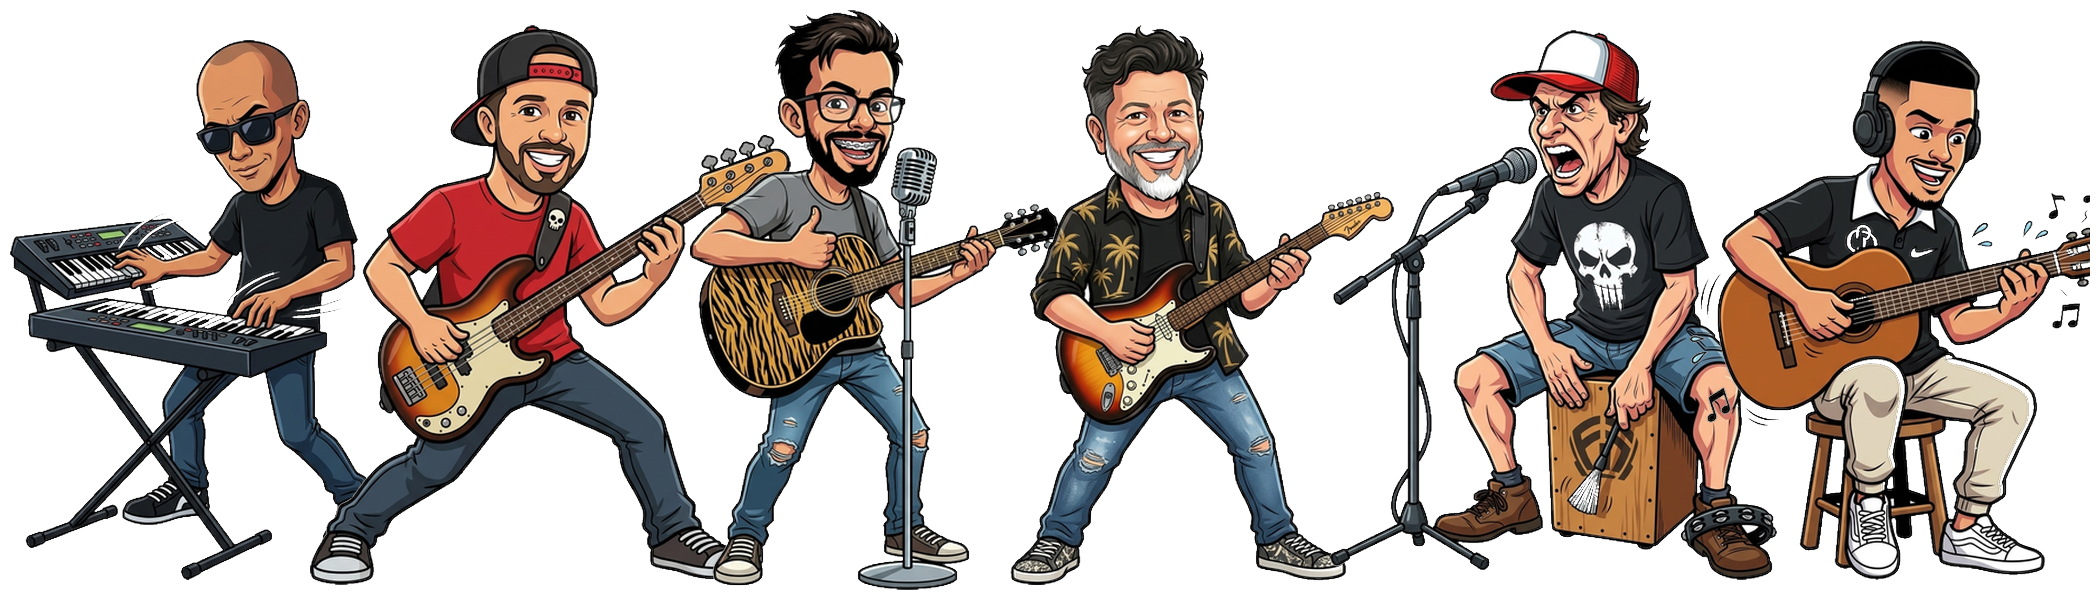
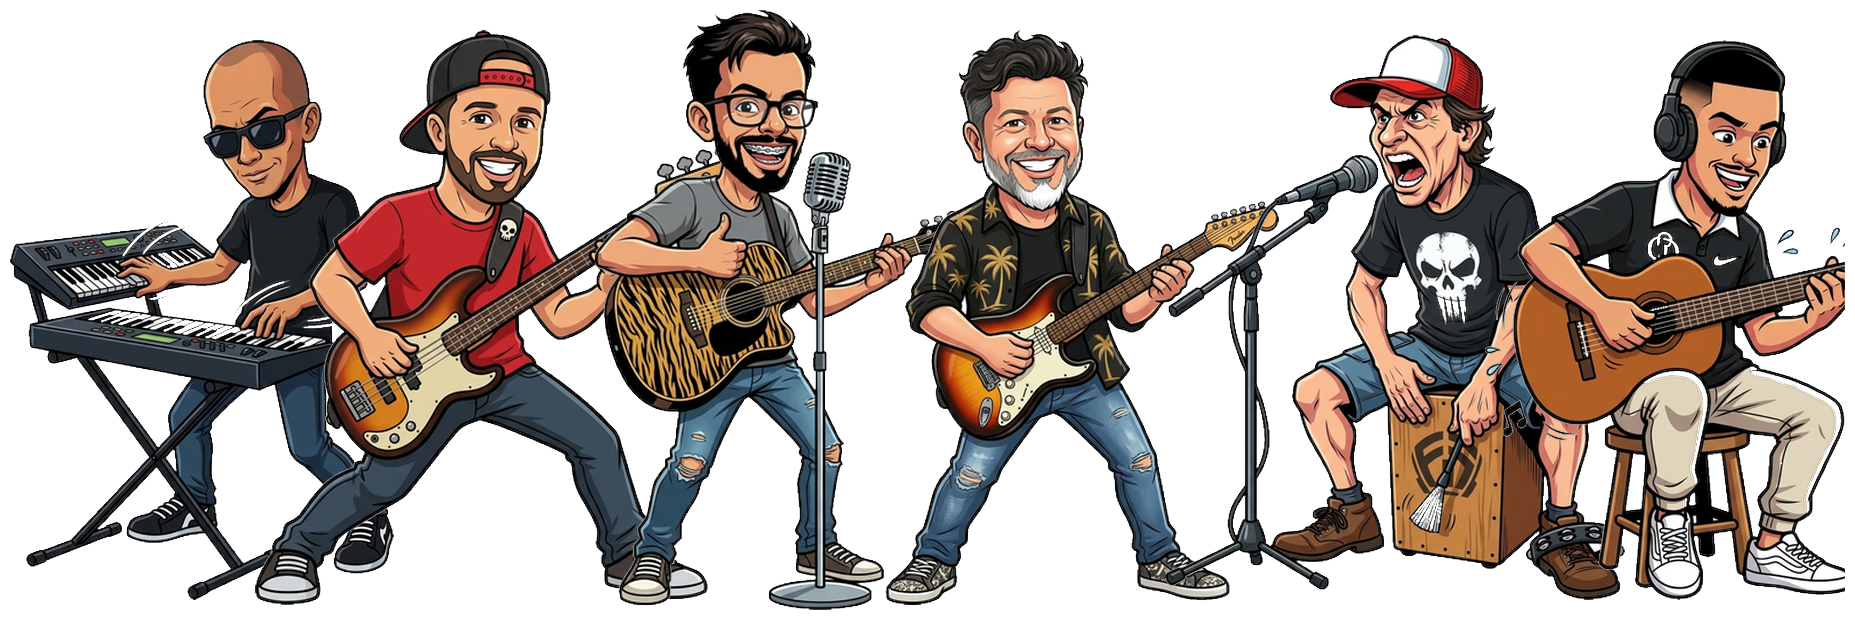
fix(hero): aplicar classe is-wide-band no style interno do index.html e expandir banda completa na largura do titulo Retorica

diff --git a/index.html b/index.html
@@ -234,7 +234,9 @@
   .hero-bg{position:absolute;inset:0;background:radial-gradient(ellipse 80% 60% at 50% 60%,rgba(200,130,10,.08) 0%,transparent 70%),radial-gradient(ellipse 40% 40% at 20% 80%,rgba(139,58,10,.12) 0%,transparent 60%)}
   .hero-lines{position:absolute;inset:0;background-image:repeating-linear-gradient(0deg,transparent,transparent 59px,rgba(200,130,10,.04) 59px,rgba(200,130,10,.04) 60px)}
   .hero-content{position:relative;text-align:center;animation:fadeUp 1.2s ease both;padding:1rem 0 6.6rem}
-  .hero-inst-wrap{position:relative;width:214px;max-width:63.75vw;aspect-ratio:485 / 514;height:auto;margin:.5rem auto .75rem;display:flex;justify-content:center;align-items:center;animation:fadeUp 1.2s .1s ease both}
+  .hero-inst-wrap{position:relative;width:214px;max-width:63.75vw;aspect-ratio:485 / 514;height:auto;margin:.5rem auto .75rem;display:flex;justify-content:center;align-items:center;animation:fadeUp 1.2s .1s ease both;transition:width .5s cubic-bezier(.4,0,.2,1),max-width .5s cubic-bezier(.4,0,.2,1),aspect-ratio .5s ease}
+  .hero-inst-wrap.is-wide-band{width:min(1050px,96vw)!important;max-width:96vw!important;aspect-ratio:1855 / 620!important;height:auto!important;margin:.25rem auto .75rem!important}
+  .hero-inst-wrap.is-wide-band .hero-inst-img:not(.active){opacity:0!important;transition:none!important}
   .hero-inst-img{position:absolute;inset:0;width:100%;height:100%;object-fit:contain;filter:drop-shadow(0 0 24px rgba(200,130,10,0.25));opacity:0;transform:scale(0.96);transition:opacity 1.3s cubic-bezier(.4,0,.2,1),transform 1.3s cubic-bezier(.4,0,.2,1);pointer-events:none;user-select:none;z-index:1;will-change:opacity,transform}
   .hero-inst-img.active{opacity:1;transform:scale(1);z-index:2}
   @keyframes fadeUp{from{opacity:0;transform:translateY(40px)}to{opacity:1;transform:translateY(0)}}
@@ -831,6 +833,7 @@
     .hero-divider{width:200px;margin:1.2rem auto}
     .hero-content{padding:2.4rem 0 7.2rem;width:100%;max-width:100%;display:flex;flex-direction:column;align-items:center;box-sizing:border-box}
     .hero-inst-wrap{margin:.9rem auto!important;width:214px;max-width:63.75vw;aspect-ratio:485 / 514}
+    .hero-inst-wrap.is-wide-band{width:min(1050px,98vw)!important;max-width:98vw!important;aspect-ratio:1855 / 620!important;margin:.25rem auto .5rem!important}
     .hero-inst-img{position:absolute;inset:0;margin:auto;width:100%;height:100%;max-width:100%;object-fit:contain}
     .toca-badge{grid-template-columns:1fr;justify-items:center;text-align:center;padding:1.15rem 1rem;gap:.9rem}
     .toca-badge-mark{width:108px;height:108px}
@@ -2635,7 +2638,10 @@ function preloadHeroCarouselImages() {
 function updateHeroWrapLayout(itemId) {
   const wrap = document.getElementById('heroLogoCarouselWrap');
   if (wrap) {
-    if (itemId === 'member_banda_juntos') {
+    const isBand = itemId === 'member_banda_juntos' ||
+      (typeof itemId === 'string' && itemId.includes('member_banda_juntos')) ||
+      (wrap.querySelector('.hero-inst-img.active') && wrap.querySelector('.hero-inst-img.active').src.includes('member_banda_juntos'));
+    if (isBand) {
       wrap.classList.add('is-wide-band');
     } else {
       wrap.classList.remove('is-wide-band');

diff --git a/site-retorica-main/index.html b/site-retorica-main/index.html
@@ -234,7 +234,9 @@
   .hero-bg{position:absolute;inset:0;background:radial-gradient(ellipse 80% 60% at 50% 60%,rgba(200,130,10,.08) 0%,transparent 70%),radial-gradient(ellipse 40% 40% at 20% 80%,rgba(139,58,10,.12) 0%,transparent 60%)}
   .hero-lines{position:absolute;inset:0;background-image:repeating-linear-gradient(0deg,transparent,transparent 59px,rgba(200,130,10,.04) 59px,rgba(200,130,10,.04) 60px)}
   .hero-content{position:relative;text-align:center;animation:fadeUp 1.2s ease both;padding:1rem 0 6.6rem}
-  .hero-inst-wrap{position:relative;width:214px;max-width:63.75vw;aspect-ratio:485 / 514;height:auto;margin:.5rem auto .75rem;display:flex;justify-content:center;align-items:center;animation:fadeUp 1.2s .1s ease both}
+  .hero-inst-wrap{position:relative;width:214px;max-width:63.75vw;aspect-ratio:485 / 514;height:auto;margin:.5rem auto .75rem;display:flex;justify-content:center;align-items:center;animation:fadeUp 1.2s .1s ease both;transition:width .5s cubic-bezier(.4,0,.2,1),max-width .5s cubic-bezier(.4,0,.2,1),aspect-ratio .5s ease}
+  .hero-inst-wrap.is-wide-band{width:min(1050px,96vw)!important;max-width:96vw!important;aspect-ratio:1855 / 620!important;height:auto!important;margin:.25rem auto .75rem!important}
+  .hero-inst-wrap.is-wide-band .hero-inst-img:not(.active){opacity:0!important;transition:none!important}
   .hero-inst-img{position:absolute;inset:0;width:100%;height:100%;object-fit:contain;filter:drop-shadow(0 0 24px rgba(200,130,10,0.25));opacity:0;transform:scale(0.96);transition:opacity 1.3s cubic-bezier(.4,0,.2,1),transform 1.3s cubic-bezier(.4,0,.2,1);pointer-events:none;user-select:none;z-index:1;will-change:opacity,transform}
   .hero-inst-img.active{opacity:1;transform:scale(1);z-index:2}
   @keyframes fadeUp{from{opacity:0;transform:translateY(40px)}to{opacity:1;transform:translateY(0)}}
@@ -831,6 +833,7 @@
     .hero-divider{width:200px;margin:1.2rem auto}
     .hero-content{padding:2.4rem 0 7.2rem;width:100%;max-width:100%;display:flex;flex-direction:column;align-items:center;box-sizing:border-box}
     .hero-inst-wrap{margin:.9rem auto!important;width:214px;max-width:63.75vw;aspect-ratio:485 / 514}
+    .hero-inst-wrap.is-wide-band{width:min(1050px,98vw)!important;max-width:98vw!important;aspect-ratio:1855 / 620!important;margin:.25rem auto .5rem!important}
     .hero-inst-img{position:absolute;inset:0;margin:auto;width:100%;height:100%;max-width:100%;object-fit:contain}
     .toca-badge{grid-template-columns:1fr;justify-items:center;text-align:center;padding:1.15rem 1rem;gap:.9rem}
     .toca-badge-mark{width:108px;height:108px}
@@ -2635,7 +2638,10 @@ function preloadHeroCarouselImages() {
 function updateHeroWrapLayout(itemId) {
   const wrap = document.getElementById('heroLogoCarouselWrap');
   if (wrap) {
-    if (itemId === 'member_banda_juntos') {
+    const isBand = itemId === 'member_banda_juntos' ||
+      (typeof itemId === 'string' && itemId.includes('member_banda_juntos')) ||
+      (wrap.querySelector('.hero-inst-img.active') && wrap.querySelector('.hero-inst-img.active').src.includes('member_banda_juntos'));
+    if (isBand) {
       wrap.classList.add('is-wide-band');
     } else {
       wrap.classList.remove('is-wide-band');

diff --git a/site-retorica-main/style.css b/site-retorica-main/style.css
@@ -271,7 +271,8 @@
   .hero-lines{position:absolute;inset:0;background-image:repeating-linear-gradient(0deg,transparent,transparent 59px,rgba(200,130,10,.04) 59px,rgba(200,130,10,.04) 60px)}
   .hero-content{position:relative;text-align:center;animation:fadeUp 1.2s ease both;padding:1rem 0 6.6rem}
   .hero-inst-wrap{position:relative;width:214px;max-width:63.75vw;aspect-ratio:485 / 514;height:auto;margin:.5rem auto .75rem;display:flex;justify-content:center;align-items:center;animation:fadeUp 1.2s .1s ease both;transition:width .6s cubic-bezier(.4,0,.2,1),max-width .6s cubic-bezier(.4,0,.2,1),aspect-ratio .6s ease}
-  .hero-inst-wrap.is-wide-band{width:min(980px,94vw);max-width:94vw;aspect-ratio:2100 / 600;height:auto}
+  .hero-inst-wrap.is-wide-band{width:min(1050px,96vw)!important;max-width:96vw!important;aspect-ratio:1855 / 620!important;height:auto!important;margin:.25rem auto .75rem!important}
+  .hero-inst-wrap.is-wide-band .hero-inst-img:not(.active){opacity:0!important;transition:none!important}
   .hero-inst-img{position:absolute;inset:0;width:100%;height:100%;object-fit:contain;filter:drop-shadow(0 0 24px rgba(200,130,10,0.25));opacity:0;transform:scale(0.96);transition:opacity 1.3s cubic-bezier(.4,0,.2,1),transform 1.3s cubic-bezier(.4,0,.2,1);pointer-events:none;user-select:none;z-index:1;will-change:opacity,transform}
   .hero-inst-img.active{opacity:1;transform:scale(1);z-index:2}
   @keyframes fadeUp{from{opacity:0;transform:translateY(40px)}to{opacity:1;transform:translateY(0)}}

diff --git a/style.css b/style.css
@@ -271,7 +271,8 @@
   .hero-lines{position:absolute;inset:0;background-image:repeating-linear-gradient(0deg,transparent,transparent 59px,rgba(200,130,10,.04) 59px,rgba(200,130,10,.04) 60px)}
   .hero-content{position:relative;text-align:center;animation:fadeUp 1.2s ease both;padding:1rem 0 6.6rem}
   .hero-inst-wrap{position:relative;width:214px;max-width:63.75vw;aspect-ratio:485 / 514;height:auto;margin:.5rem auto .75rem;display:flex;justify-content:center;align-items:center;animation:fadeUp 1.2s .1s ease both;transition:width .6s cubic-bezier(.4,0,.2,1),max-width .6s cubic-bezier(.4,0,.2,1),aspect-ratio .6s ease}
-  .hero-inst-wrap.is-wide-band{width:min(980px,94vw);max-width:94vw;aspect-ratio:2100 / 600;height:auto}
+  .hero-inst-wrap.is-wide-band{width:min(1050px,96vw)!important;max-width:96vw!important;aspect-ratio:1855 / 620!important;height:auto!important;margin:.25rem auto .75rem!important}
+  .hero-inst-wrap.is-wide-band .hero-inst-img:not(.active){opacity:0!important;transition:none!important}
   .hero-inst-img{position:absolute;inset:0;width:100%;height:100%;object-fit:contain;filter:drop-shadow(0 0 24px rgba(200,130,10,0.25));opacity:0;transform:scale(0.96);transition:opacity 1.3s cubic-bezier(.4,0,.2,1),transform 1.3s cubic-bezier(.4,0,.2,1);pointer-events:none;user-select:none;z-index:1;will-change:opacity,transform}
   .hero-inst-img.active{opacity:1;transform:scale(1);z-index:2}
   @keyframes fadeUp{from{opacity:0;transform:translateY(40px)}to{opacity:1;transform:translateY(0)}}

diff --git a/site-retorica-main/sw.js b/site-retorica-main/sw.js
@@ -1,4 +1,4 @@
-const CACHE_NAME = 'retorica-v35';
+const CACHE_NAME = 'retorica-v36';
 const ASSETS = [
   './index.html',
   './regras.html',

diff --git a/sw.js b/sw.js
@@ -1,4 +1,4 @@
-const CACHE_NAME = 'retorica-v35';
+const CACHE_NAME = 'retorica-v36';
 const ASSETS = [
   './index.html',
   './regras.html',
